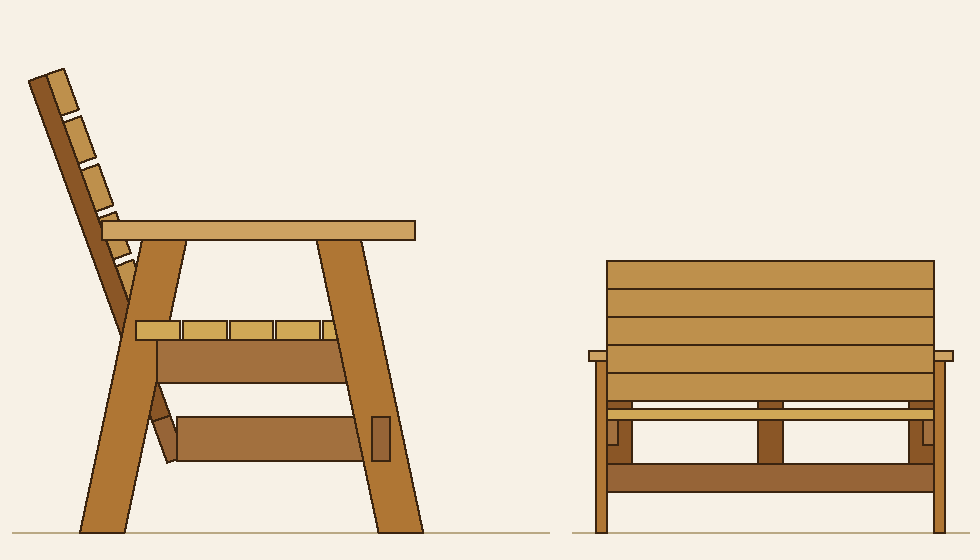
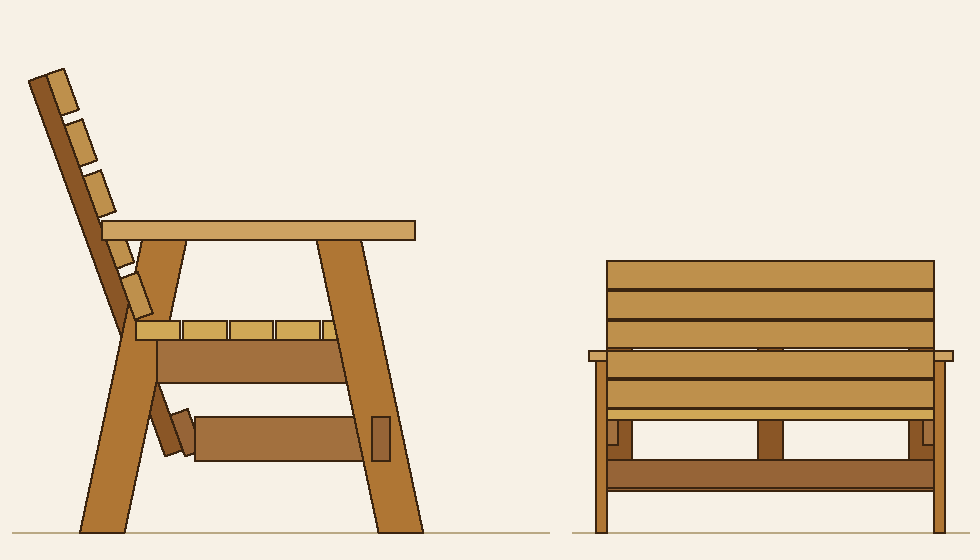
Rear beam: pull in toward the seat; posts' 3.5in faces laminate flush to the beam, bottom rails butt its front; robust back-slat start; 0 interferences

diff --git a/projects/2x4-garden-bench.html b/projects/2x4-garden-bench.html
@@ -87,14 +87,14 @@
       <tbody>
         <tr><td class="num">A</td><td>Front leg</td><td class="num">2</td><td class="num">24″</td><td>Both ends <strong>12° bevel</strong> — foot sits flat on floor, top level under the armrest.</td></tr>
         <tr><td class="num">B</td><td>Back leg</td><td class="num">2</td><td class="num">24″</td><td>Both ends <strong>12° bevel</strong> (mirror of the front leg).</td></tr>
-        <tr><td class="num">C</td><td>Backrest post</td><td class="num">3</td><td class="num">29⅛″</td><td>Reclined ~20°; <strong>bottom cut ~20°</strong> to land flat on the rear beam. (L / centre / R)</td></tr>
+        <tr><td class="num">C</td><td>Backrest post</td><td class="num">3</td><td class="num">32″</td><td>Reclined ~20°; <strong>bottom cut ~20°</strong> to land flat on the rear beam. (L / centre / R)</td></tr>
         <tr><td class="num">D</td><td>Armrest</td><td class="num">2</td><td class="num">25⅛″</td><td>Laid flat. Round/ease the front corners.</td></tr>
         <tr><td class="num">E</td><td>Seat rail</td><td class="num">2</td><td class="num">16¾″</td><td>2×4 on edge. <strong>Rear end cut ~20°</strong> to butt the backrest post.</td></tr>
-        <tr><td class="num">F</td><td>Bottom rail</td><td class="num">2</td><td class="num">16⅜″</td><td>2×4 on edge, ~6″ off the floor. <strong>Rear end cut ~20°</strong> to butt the rear cross beam.</td></tr>
+        <tr><td class="num">F</td><td>Bottom rail</td><td class="num">2</td><td class="num">15″</td><td>2×4 on edge, ~6″ off the floor. <strong>Rear end cut ~20°</strong> to butt the rear cross beam.</td></tr>
         <tr><td class="num">G</td><td>Seat slat</td><td class="num">5</td><td class="num">45″</td><td>Square cuts. Tuck between the legs (no corner notches).</td></tr>
         <tr><td class="num">H</td><td>Back slat</td><td class="num">5</td><td class="num">45″</td><td>Square cuts.</td></tr>
         <tr><td class="num">J</td><td>Front cross beam</td><td class="num">1</td><td class="num">45″</td><td>2×4 on edge, between the front legs.</td></tr>
-        <tr><td class="num">K</td><td>Rear cross beam</td><td class="num">1</td><td class="num">45″</td><td><strong>Canted ~20°</strong> (3½″ face up) so the three posts land on it flush.</td></tr>
+        <tr><td class="num">K</td><td>Rear cross beam</td><td class="num">1</td><td class="num">45″</td><td><strong>Canted ~20°</strong> so its 3½″ face laminates flush to the three posts' 3½″ faces; bottom rails butt its front.</td></tr>
       </tbody>
       <tfoot>
         <tr><td class="num" colspan="2">Total</td><td class="num">25</td><td class="num" colspan="2">≈ 70 linear feet of 2×4</td></tr>
@@ -110,8 +110,8 @@
     <ul class="check">
       <li><strong>Leg feet &amp; tops — 12° bevel.</strong> Cut both ends of all four legs at 12° so the splayed legs sit flat and the armrest beds level.</li>
       <li><strong>Backrest post bottoms — ~20° cut.</strong> So each of the three posts lands flat on the canted rear beam.</li>
-      <li><strong>Seat- &amp; bottom-rail rear ends — ~20° cut.</strong> So the rail butts cleanly against the reclined post's face.</li>
-      <li><strong>Rear cross beam — canted ~20°.</strong> Mounted with its 3½″ face turned up to meet the posts (a flush face joint, not a notch).</li>
+      <li><strong>Seat-rail rear ends — ~20° cut</strong> to butt the backrest post; <strong>bottom-rail rear ends — ~20° cut</strong> to butt the rear cross beam.</li>
+      <li><strong>Rear cross beam — canted ~20°.</strong> Its 3½″ face laminates flat against the posts' 3½″ faces (a flush face joint, not a notch).</li>
       <li><strong>Slats — inset to 45″.</strong> They tuck between the legs, so the corner notches a bench like this would normally need are avoided entirely.</li>
     </ul>
     <div class="callout">

diff --git a/index.html b/index.html
@@ -258,7 +258,7 @@ function strut(x, z0,y0, z1,y1, xThick, profW){
 const BACKREST_X = INNER_X - W4/2;            // 20.75 — 3.5" wide post, outer face on leg inner face
 const SEAT_REF_Y = 14;                        // backrest line crosses the back leg here (bolted)
 const BEAM_Y = BOT_RAIL_CY;                   // rear beam centre height (= bottom-rail height)
-const REAR_BEAM_Y = BEAM_Y + (W4/2)*Math.cos(RCL); // post bottoms land flush on the beam's top face
+const REAR_BEAM_Y = BEAM_Y + TH*Math.sin(RCL) - (W4/2)*Math.cos(RCL); // posts run down to the beam's lower edge (face-mounted)
 const backrest = (()=>{
   const ref = backLegZ(SEAT_REF_Y);
   const zAt = (y)=> ref - (y - SEAT_REF_Y)*Math.tan(RCL);
@@ -337,8 +337,8 @@ for(const [side,sx,rx] of [['left',-LEG_X,-RAIL_X],['right',LEG_X,RAIL_X]]){
   const srF = frontLegZ(SEAT_RAIL_CY), srB = postFrontZ(SEAT_RAIL_CY - W4/2);
   add('seatrail-'+side,'Seat rail ('+side+')','2x4','2×4 · '+(srF-srB).toFixed(1)+'″',
       [TH, W4, srF-srB], [rx, SEAT_RAIL_CY, (srF+srB)/2]);
-  // Bottom rail (2x4 on edge) ≈6″ off the floor; rear end butts the rear cross beam
-  const brF = frontLegZ(BOT_RAIL_CY), brB = backrestZ(BEAM_Y) + (TH/2)*Math.cos(RCL);
+  // Bottom rail (2x4 on edge) ≈6″ off the floor; rear end butts the rear cross beam's front face
+  const brF = frontLegZ(BOT_RAIL_CY), brB = backrestZ(BEAM_Y) + (3*TH/2)*Math.cos(RCL);
   add('bottomrail-'+side,'Bottom rail ('+side+')','2x4','2×4 · '+(brF-brB).toFixed(1)+'″',
       [TH, W4, brF-brB], [rx, BOT_RAIL_CY, (brF+brB)/2]);
 }
@@ -358,7 +358,8 @@ for(const [side,sx,rx] of [['left',-LEG_X,-RAIL_X],['right',LEG_X,RAIL_X]]){
   const dirY = (backrest.y1-backrest.y0)/backrest.len;
   const dirZ = (backrest.z1-backrest.z0)/backrest.len;
   const nY = Math.sin(RCL), nZ = Math.cos(RCL), off = TH; // proud of the 3.5" front face (post 1.5" deep)
-  const sLo = 11, sHi = backrest.len - W4/2;  // slats span from just above the seat to the post top
+  // start the lowest slat ~2" above the seat (robust to post length), top slat flush with the post top
+  const sLo = (SEAT_TOP + 2 - backrest.y0 - off*nY)/dirY, sHi = backrest.len - W4/2;
   const step = (sHi - sLo)/(BACK_SLAT_COUNT-1);
   for(let i=0;i<BACK_SLAT_COUNT;i++){
     const t  = sLo + i*step;
@@ -372,10 +373,12 @@ for(const [side,sx,rx] of [['left',-LEG_X,-RAIL_X],['right',LEG_X,RAIL_X]]){
 // ---- Two bottom cross beams (front + rear) joining the A-frames ----
 add('beam-front','Bottom cross beam – front','2x4','2×4 · 45″',
     [BEAM_LEN, W4, TH], [0, BOT_RAIL_CY, frontLegZ(BOT_RAIL_CY)]);
-// Rear beam: in line with the posts (their bottom ends land flush on its top), CANTED to
-// the recline, and butted by the two bottom rails (so it ties them together).
-add('beam-rear','Bottom cross beam – rear (canted; receives the posts, butts the bottom rails)','2x4','2×4 · 45″',
-    [BEAM_LEN, W4, TH], [0, BEAM_Y, backrestZ(BEAM_Y)], -RCL);
+// Rear beam: pulled IN toward the seat so its 3.5" face laminates flat against the posts'
+// 3.5" faces; CANTED to the recline; butted on its front by the two bottom rails.
+const beamCZ = backrestZ(BEAM_Y) + TH*Math.cos(RCL);   // beam centre Z (in front of the post line)
+const beamCY = BEAM_Y + TH*Math.sin(RCL);              // beam centre Y
+add('beam-rear','Bottom cross beam – rear (canted; posts'+"'"+' faces mount flush to its 3.5″ face)','2x4','2×4 · 45″',
+    [BEAM_LEN, W4, TH], [0, beamCY, beamCZ], -RCL);
 
 /* =====================================================================
    THREE.JS SCENE
